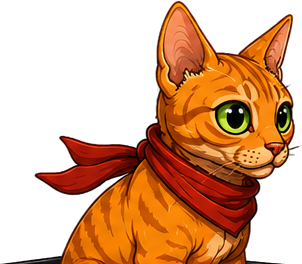
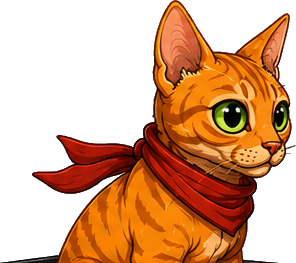
fix: elimina el halo blanco del contorno en las skins del parche 2
Los recortes conservaban el fleco anti-aliasing (pixeles opacos de
color claro heredado del fondo blanco), que sobre el fondo oscuro del
juego se veian como una linea blanca alrededor del personaje.

Se re-extrajeron las 4 skins con un paso de 'defringe': quita los
pixeles claros del contorno pegados a la transparencia (min canal
>172, 3 pasadas), conservando la linea oscura del arte y los blancos
interiores (bata del doctor). Verificado: siames/pirata/naranja con 0
pixeles claros en el borde; el doctor solo conserva la bata en el
corte inferior (la tapa el vagon). sw.js v31 para invalidar el cache
de las imagenes (mismo nombre, contenido nuevo).

diff --git a/sw.js b/sw.js
@@ -3,7 +3,7 @@
 // Service worker: estrategia red-primero con respaldo en caché.
 // Online siempre sirve la última versión; offline sirve la copia
 // guardada. Sube CACHE_VERSION al publicar cambios importantes.
-const CACHE_VERSION = 'mca-v30';
+const CACHE_VERSION = 'mca-v31';
 
 const ASSETS = [
   './',
